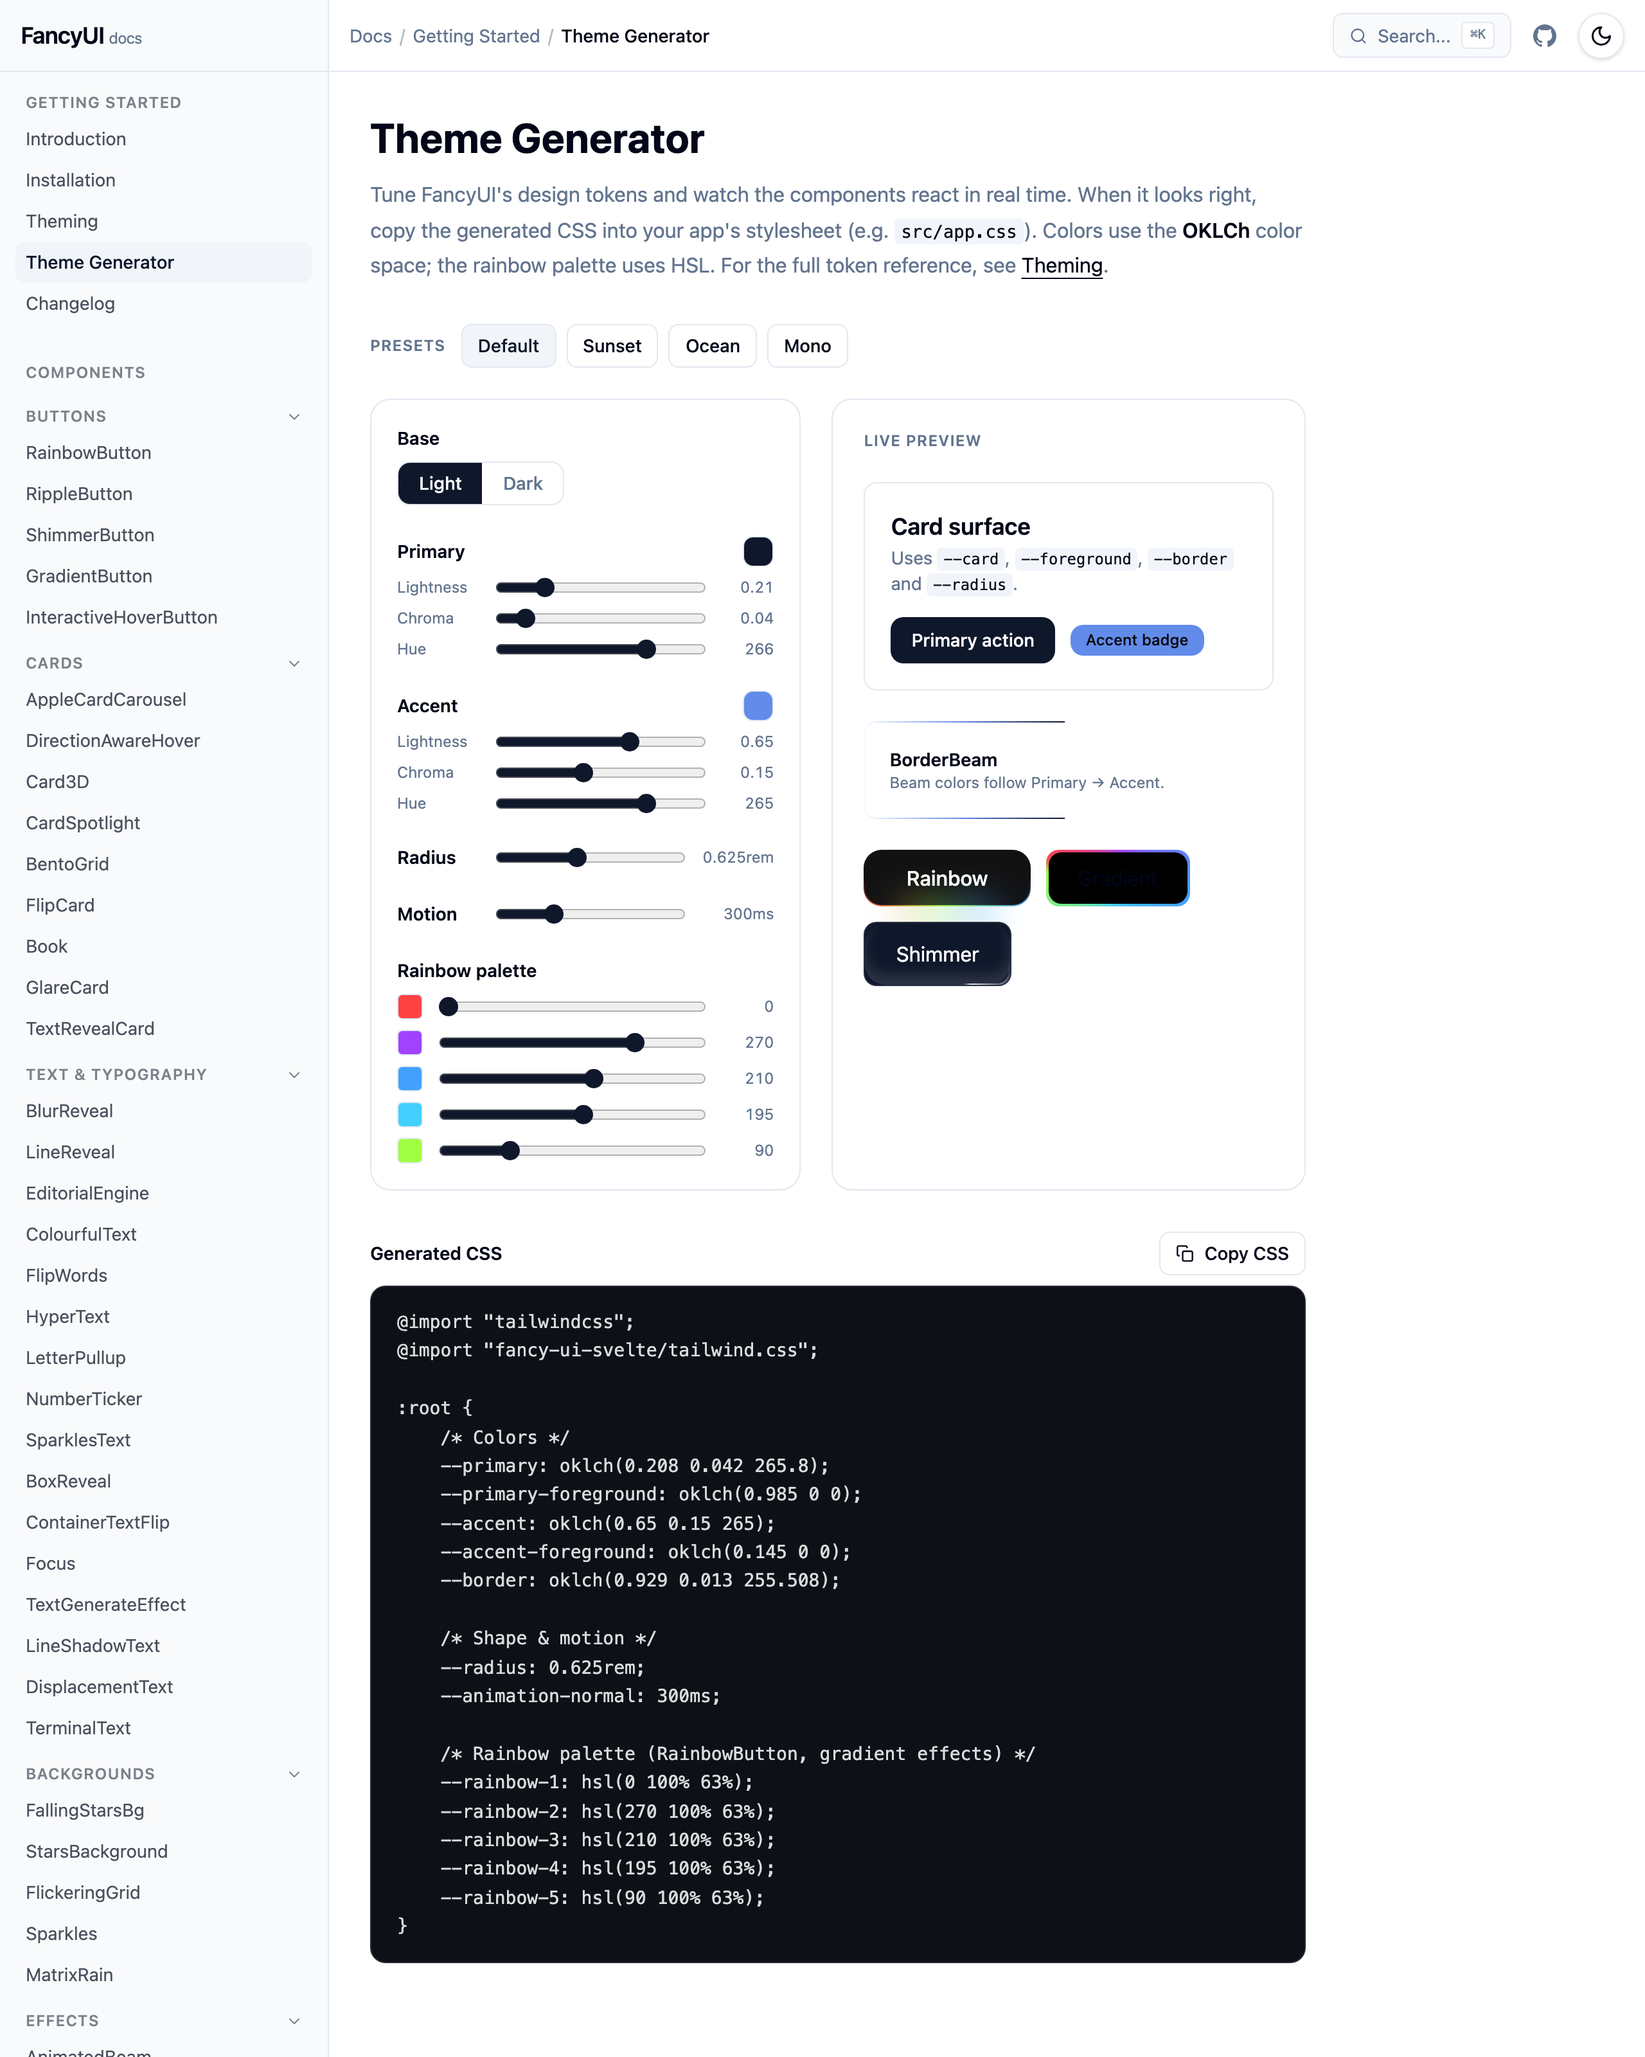
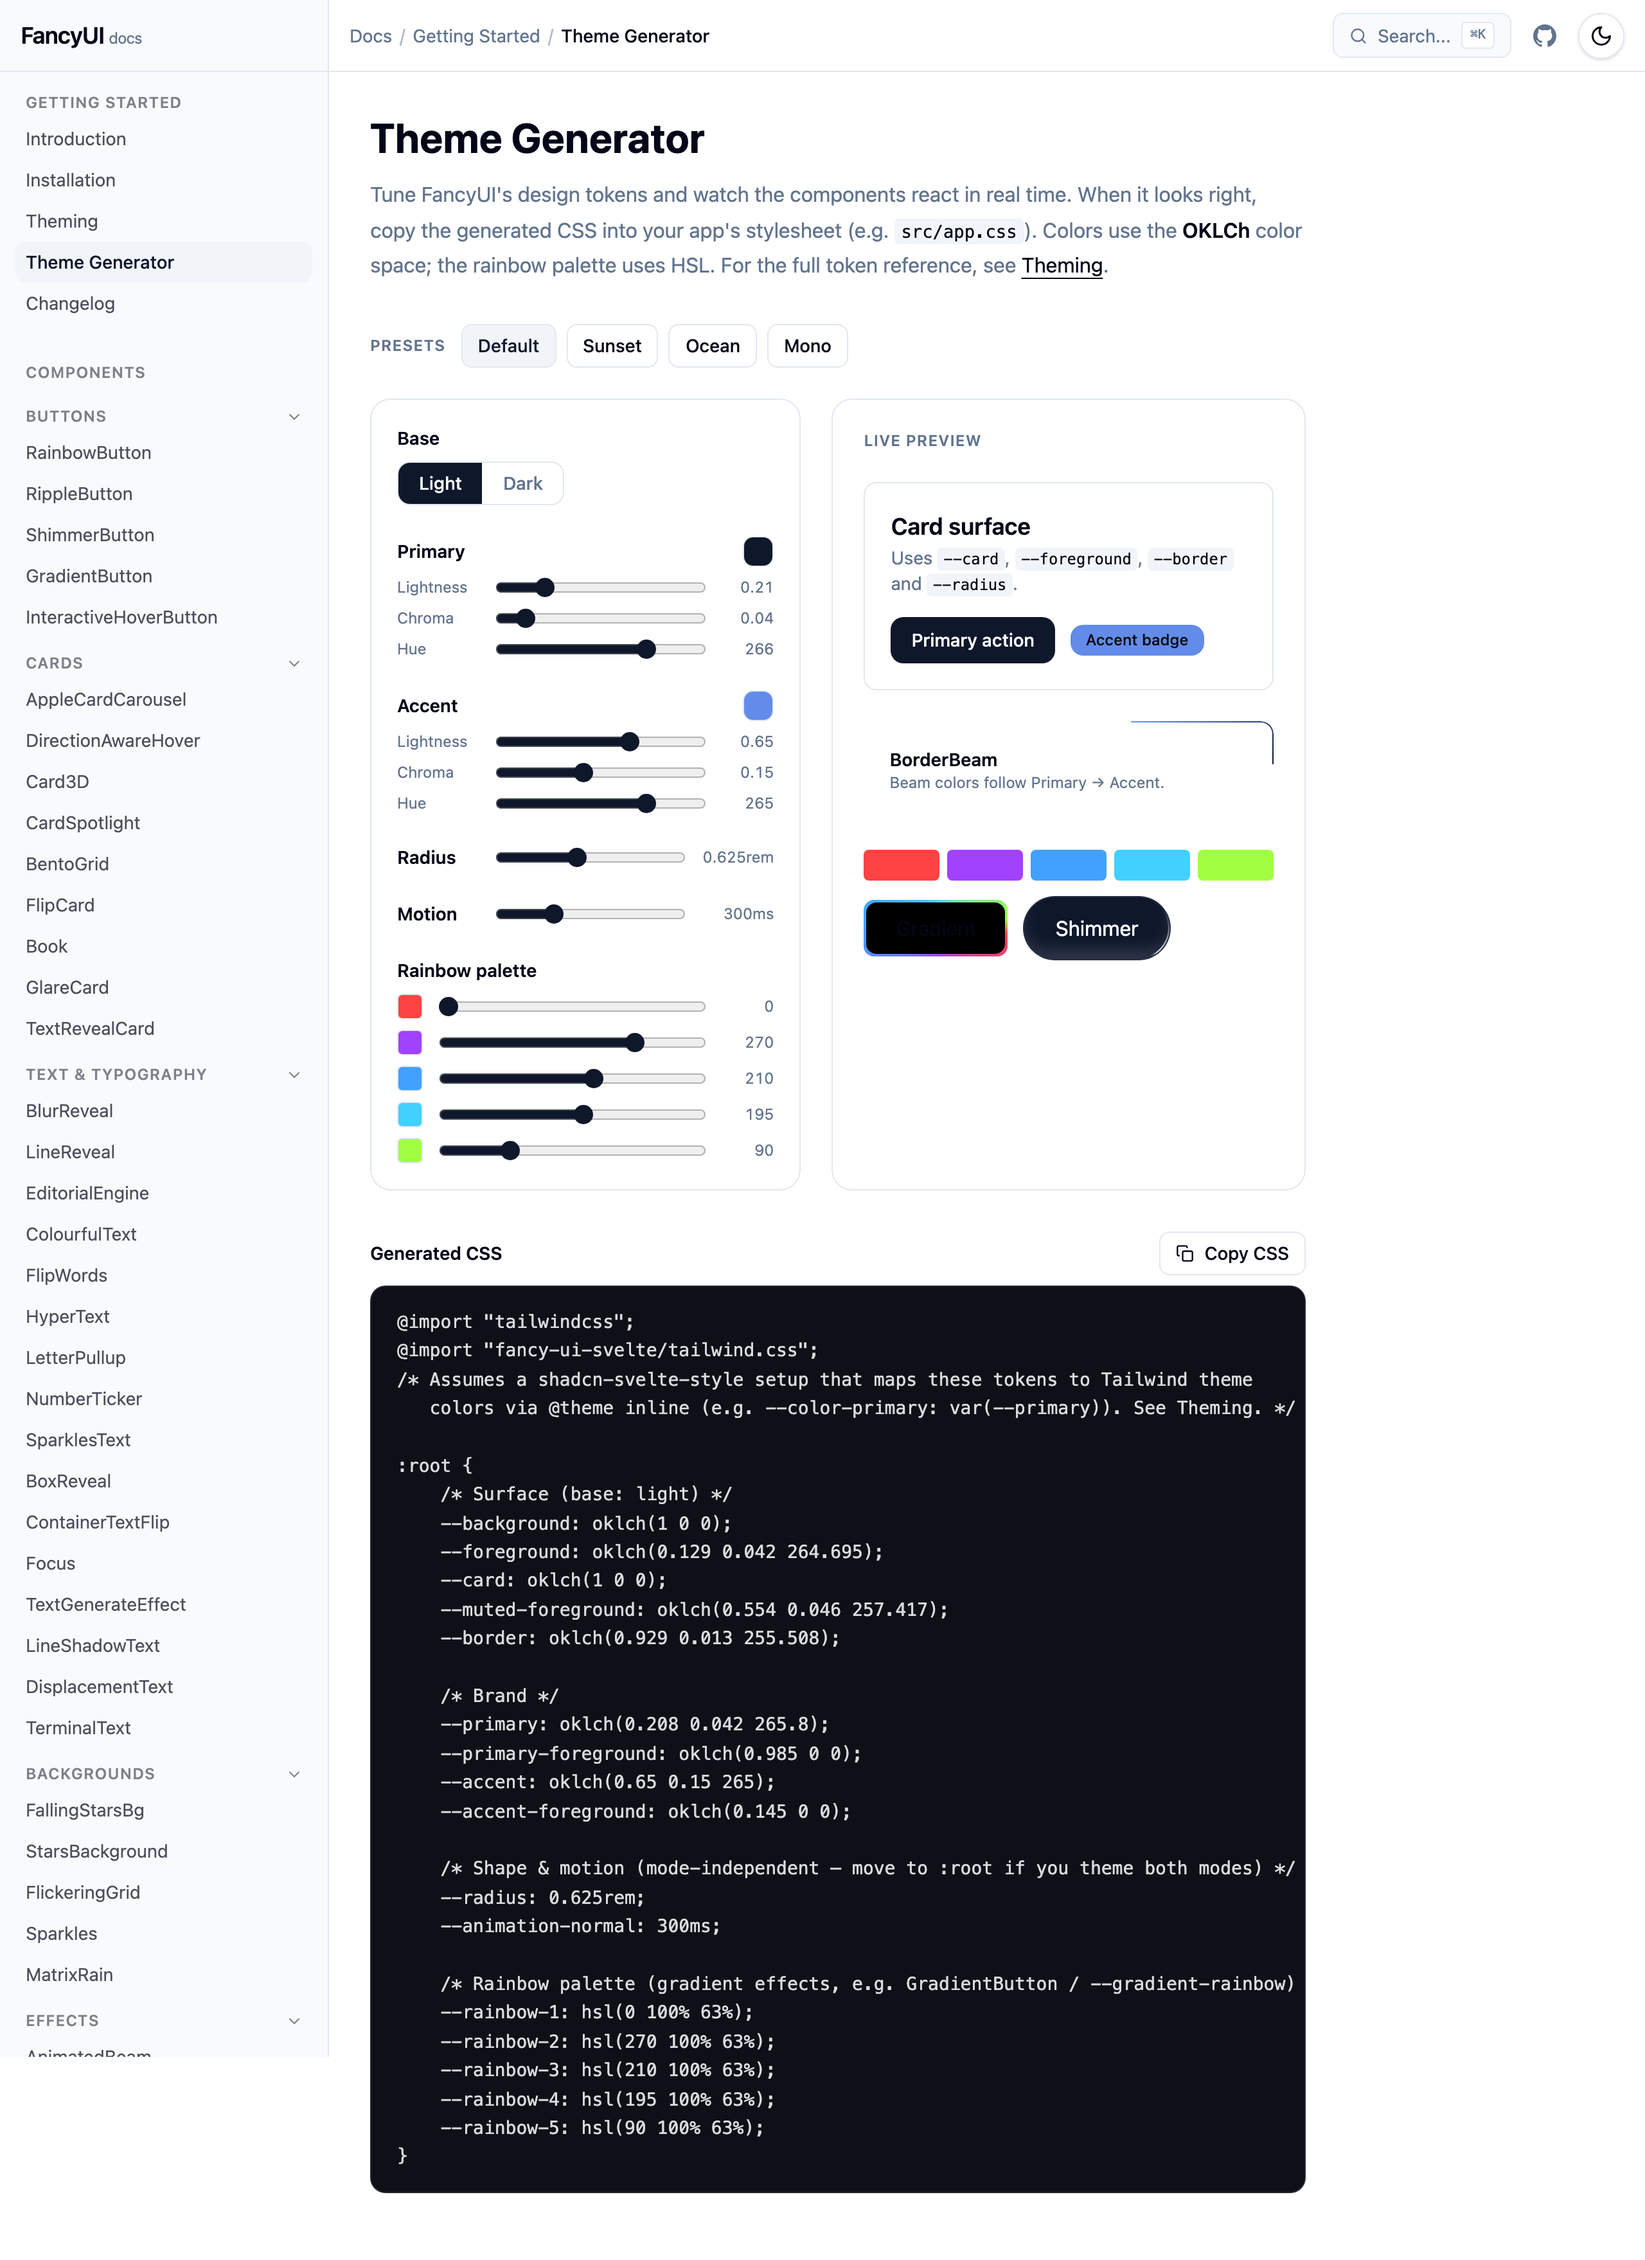
fix: address PR review feedback
- Emit dark-base themes under `.dark {}` with surface tokens, not `:root` + comment
- Drop RainbowButton from preview: it re-declares --rainbow-* on .rainbow-button,
  shadowing inherited overrides, so the palette sliders could not reach it
- Demonstrate the rainbow palette via swatches + GradientButton (consumes `colors`)
- Remove prop-only radius/motion bindings so the preview matches the copied tokens
- Note the assumed shadcn-style @theme inline mapping in the generated CSS
- Refresh screenshots

diff --git a/src/routes/docs/getting-started/theme-generator/+page.svelte b/src/routes/docs/getting-started/theme-generator/+page.svelte
@@ -1,5 +1,5 @@
 <script lang="ts">
-	import { RainbowButton, GradientButton, ShimmerButton, BorderBeam } from "$lib/fancy-ui";
+	import { GradientButton, ShimmerButton, BorderBeam } from "$lib/fancy-ui";
 
 	// ─── Base light/dark token sets (mirror src/routes/layout.css) ──────────────
 	const bases = {
@@ -119,30 +119,41 @@
 	);
 
 	// ─── Copy-paste CSS output ────────────────────────────────────────────────────
+	// Dark-base themes are emitted under `.dark` (matching the app's dark selector)
+	// so the surface tokens land where the preview shows them, not in `:root`.
+	const selector = $derived(base === "dark" ? ".dark" : ":root");
 	const cssOutput = $derived(
 		`@import "tailwindcss";
 @import "fancy-ui-svelte/tailwind.css";
+/* Assumes a shadcn-svelte-style setup that maps these tokens to Tailwind theme
+   colors via @theme inline (e.g. --color-primary: var(--primary)). See Theming. */
 
-:root {
-	/* Colors */
+${selector} {
+	/* Surface (base: ${base}) */
+	--background: ${bases[base].background};
+	--foreground: ${bases[base].foreground};
+	--card: ${bases[base].card};
+	--muted-foreground: ${bases[base].mutedForeground};
+	--border: ${bases[base].border};
+
+	/* Brand */
 	--primary: ${primaryColor};
 	--primary-foreground: ${primaryFg};
 	--accent: ${accentColor};
 	--accent-foreground: ${accentFg};
-	--border: ${bases[base].border};
 
-	/* Shape & motion */
+	/* Shape & motion (mode-independent — move to :root if you theme both modes) */
 	--radius: ${radius}rem;
 	--animation-normal: ${anim}ms;
 
-	/* Rainbow palette (RainbowButton, gradient effects) */
+	/* Rainbow palette (gradient effects, e.g. GradientButton / --gradient-rainbow) */
 	--rainbow-1: ${hslRainbow(rainbow[0])};
 	--rainbow-2: ${hslRainbow(rainbow[1])};
 	--rainbow-3: ${hslRainbow(rainbow[2])};
 	--rainbow-4: ${hslRainbow(rainbow[3])};
 	--rainbow-5: ${hslRainbow(rainbow[4])};
 }
-${base === "dark" ? "/* Values above were tuned against the dark base — put them under .dark { … } if light is your default. */\n" : ""}`
+`
 	);
 
 	async function copyCss() {
@@ -374,10 +385,10 @@ ${base === "dark" ? "/* Values above were tuned against the dark base — put th
 			</div>
 		</div>
 
-		<!-- BorderBeam card (colors bound to primary/accent) -->
+		<!-- BorderBeam card — beam colors follow the tuned Primary → Accent -->
 		<div class="bg-card relative overflow-hidden p-5" style="border-radius:var(--radius)">
 			<BorderBeam
-				duration={Math.max(6, anim / 20)}
+				duration={8}
 				size={160}
 				colorFrom={primaryColor}
 				colorTo={accentColor}
@@ -387,20 +398,17 @@ ${base === "dark" ? "/* Values above were tuned against the dark base — put th
 			<div class="text-muted-foreground text-xs">Beam colors follow Primary → Accent.</div>
 		</div>
 
-		<!-- Button zoo -->
-		<div class="flex flex-wrap items-center gap-3">
-			<RainbowButton speed={anim / 1000}>Rainbow</RainbowButton>
-			<GradientButton colors={rainbowColors} duration={anim * 4} borderRadius={radius * 16}>
-				Gradient
-			</GradientButton>
-			<ShimmerButton
-				background={primaryColor}
-				shimmerColor={primaryFg}
-				borderRadius="{radius}rem"
-				shimmerDuration="{(anim * 6) / 1000}s"
-			>
-				Shimmer
-			</ShimmerButton>
+		<!-- Rainbow palette — swatches (direct) + GradientButton (consumes the palette) -->
+		<div class="flex flex-col gap-3">
+			<div class="flex items-center gap-1.5">
+				{#each rainbowColors as c}
+					<span class="h-6 flex-1 rounded" style="background:{c}"></span>
+				{/each}
+			</div>
+			<div class="flex flex-wrap items-center gap-3">
+				<GradientButton colors={rainbowColors}>Gradient</GradientButton>
+				<ShimmerButton background={primaryColor} shimmerColor={primaryFg}>Shimmer</ShimmerButton>
+			</div>
 		</div>
 	</div>
 </div>
